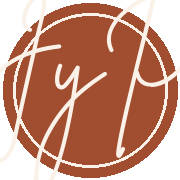
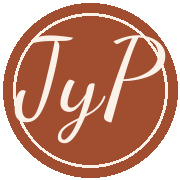
Caligrafía de los testigos con Dancing Script (más legible)

Changed region(s): [[0.0278, 0.0556, 1.0, 0.9722]]

diff --git a/invitacion/ivan/index.html b/invitacion/ivan/index.html
@@ -198,7 +198,7 @@
               src="/assets/witness/witness-title.png"
               alt="testigo de nuestra boda"
               width="900"
-              height="207">
+              height="110">
           </span>
           <span class="witness-envelope-flap" aria-hidden="true"></span>
           <span class="witness-envelope-front" aria-hidden="true"></span>
@@ -214,7 +214,7 @@
               src="/assets/witness/witness-teaser.png"
               alt=""
               width="460"
-              height="305">
+              height="188">
           </span>
         </span>
       </button>

diff --git a/invitacion/mery/index.html b/invitacion/mery/index.html
@@ -198,7 +198,7 @@
               src="/assets/witness/witness-title.png"
               alt="testigo de nuestra boda"
               width="900"
-              height="207">
+              height="110">
           </span>
           <span class="witness-envelope-flap" aria-hidden="true"></span>
           <span class="witness-envelope-front" aria-hidden="true"></span>
@@ -214,7 +214,7 @@
               src="/assets/witness/witness-teaser.png"
               alt=""
               width="460"
-              height="305">
+              height="188">
           </span>
         </span>
       </button>

diff --git a/tools/generate_invitations.py b/tools/generate_invitations.py
@@ -33,13 +33,15 @@ except ImportError as error:  # pragma: no cover - useful message on a new machi
 ROOT = Path(__file__).resolve().parents[1]
 DEFAULT_CONFIG = ROOT / "invitaciones.json"
 DEFAULT_FONT = ROOT / "tools" / "fonts" / "Brittany-Signature.ttf"
+DEFAULT_WITNESS_FONT = ROOT / "tools" / "fonts" / "Dancing-Script.ttf"
 HTML_TEMPLATE = ROOT / "index.html"
 ENVELOPE_TEMPLATE = ROOT / "assets" / "sobre-base.png"
 OUTPUT_ROOT = ROOT / "invitacion"
 WITNESS_IMAGE_DIR = ROOT / "assets" / "witness"
 
-# Calligraphic phrases rendered with Brittany only at build time (the font is
-# never served). The seal carries the JyP monogram, like the favicon.
+# Calligraphic phrases rendered with Dancing Script (OFL) only at build time
+# (the font is never served). The seal carries the JyP monogram, like the
+# favicon. Brittany is kept for the recipient names on the envelope.
 WITNESS_TEASER = "¡Espera!"
 WITNESS_TITLE = "testigo de nuestra boda"
 WITNESS_SEAL_TEXT = "JyP"
@@ -79,6 +81,13 @@ def parse_args() -> argparse.Namespace:
         type=Path,
         default=Path(os.environ.get("INVITATION_FONT", DEFAULT_FONT)),
         help="Path to a licensed Brittany Signature TTF/OTF file.",
+    )
+    parser.add_argument(
+        "--witness-font",
+        type=Path,
+        default=Path(os.environ.get("INVITATION_WITNESS_FONT", DEFAULT_WITNESS_FONT)),
+        help="Path to a licensed cursive font for the witness phrases "
+        "(default: Dancing Script).",
     )
     parser.add_argument(
         "--only",
@@ -565,6 +574,7 @@ def main() -> int:
     args = parse_args()
     config_path = args.config.resolve()
     font_path = args.font.expanduser().resolve()
+    witness_font_path = args.witness_font.expanduser().resolve()
 
     if not font_path.is_file():
         raise SystemExit(
@@ -581,18 +591,24 @@ def main() -> int:
 
     witness_images: dict[str, Path] | None = None
     if any(item.get("witness_name") for item in invitations):
+        if not witness_font_path.is_file():
+            raise SystemExit(
+                f"Witness font not found: {witness_font_path}\n"
+                "Put a licensed file at tools/fonts/Dancing-Script.ttf, set "
+                "INVITATION_WITNESS_FONT, or pass --witness-font."
+            )
         witness_images = {
             "teaser": render_witness_text(
                 WITNESS_TEASER,
-                font_path,
+                witness_font_path,
                 "witness-teaser.png",
                 460,
                 bottom_pad_ratio=0.22,
             ),
             "title": render_witness_text(
-                WITNESS_TITLE, font_path, "witness-title.png", 900
+                WITNESS_TITLE, witness_font_path, "witness-title.png", 900
             ),
-            "seal": render_witness_seal(font_path),
+            "seal": render_witness_seal(witness_font_path),
         }
 
     for item in invitations:

diff --git a/tools/fonts/README.md b/tools/fonts/README.md
@@ -1,6 +1,12 @@
-# Fuente local para las invitaciones
+# Fuentes locales para las invitaciones
 
-Coloca aquí una copia **con licencia** de Brittany Signature con este nombre:
+Dos fuentes, ambas **excluidas de Git** y nunca publicadas como webfont. Solo se
+usan localmente para convertir texto en píxeles. Las páginas e imágenes ya
+generadas sí son completamente estáticas.
+
+## 1. Brittany Signature (nombres de los sobres)
+
+Copia **con licencia** (uso personal, Creatype Studio) con este nombre:
 
 ```text
 tools/fonts/Brittany-Signature.ttf
@@ -12,6 +18,16 @@ También puedes mantenerla en cualquier otra ubicación y ejecutar:
 python3 tools/generate_invitations.py --font /ruta/Brittany-Signature.ttf
 ```
 
-El archivo de fuente está excluido de Git y no se publica como webfont. Solo se
-usa localmente para convertir los nombres en píxeles dentro del JPEG del sobre.
-Las páginas e imágenes ya generadas sí son completamente estáticas.
+## 2. Dancing Script (frases del sobre de testigos)
+
+Copia con este nombre (licencia **OFL**, libre incluso para uso comercial):
+
+```text
+tools/fonts/Dancing-Script.ttf
+```
+
+También puedes mantenerla en cualquier otra ubicación y ejecutar:
+
+```bash
+python3 tools/generate_invitations.py --witness-font /ruta/Dancing-Script.ttf
+```

diff --git a/README.md b/README.md
@@ -159,9 +159,11 @@ controla la caligrafía del sobre.
 - **Youngest Serif** — cuerpo (párrafos)
 - **Hertical Smooth** — titulares (Etiqueta, alojamiento, menú, ¡reserva el día!)
 - **Fineday Two** — la frase «Gracias por formar parte de la nuestra»
-- **Brittany Signature** — nombres de destinatarios y la caligrafía del sobre de
-  testigos («¡Espera!», «testigo de nuestra boda», sello JyP), rasterizada
-  localmente; nunca se sirve ni se incluye en el repositorio
+- **Brittany Signature** — nombres de destinatarios, rasterizada localmente;
+  nunca se sirve ni se incluye en el repositorio
+- **Dancing Script** (OFL) — caligrafía del sobre de testigos («¡Espera!»,
+  «testigo de nuestra boda», sello JyP), más legible que Brittany; rasterizada
+  localmente, nunca se sirve ni se incluye en el repositorio
 
 ## Colores de la paleta
 
